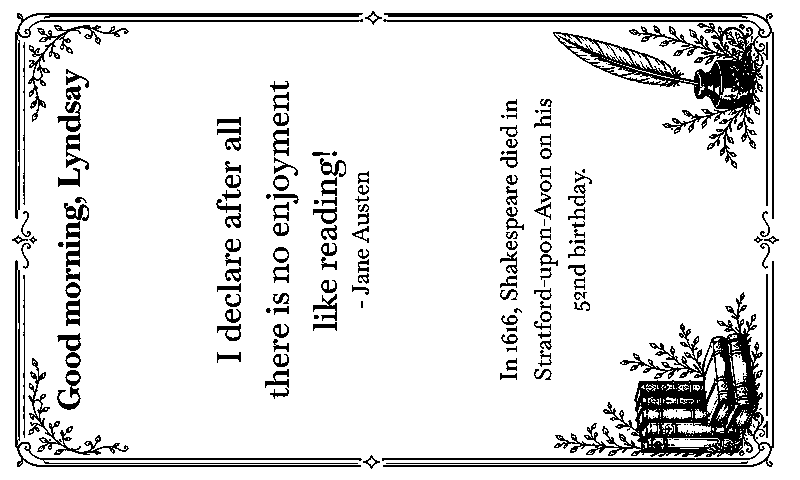
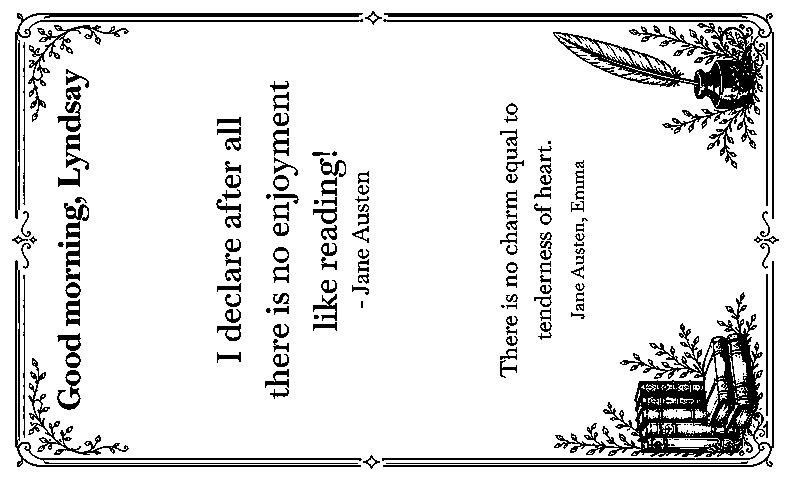
Add literature quote source

Changed region(s): [[0.625, 0.1875, 0.75, 0.8125]]

diff --git a/app/static/index.html b/app/static/index.html
@@ -99,6 +99,7 @@
               Source
               <select id="upperSource">
                 <option value="daily_author_quote">Daily quote from an author</option>
+                <option value="quotes_from_literature">Quotes from literature</option>
                 <option value="daily_bible_verse">Daily Bible verse</option>
                 <option value="daily_psalm">Daily Psalm</option>
                 <option value="today_in_history">Today in history</option>
@@ -131,6 +132,7 @@
               Source
               <select id="lowerSource">
                 <option value="daily_author_quote">Daily quote from an author</option>
+                <option value="quotes_from_literature">Quotes from literature</option>
                 <option value="daily_bible_verse">Daily Bible verse</option>
                 <option value="daily_psalm">Daily Psalm</option>
                 <option value="today_in_history">Today in history</option>

diff --git a/app/static/app.js b/app/static/app.js
@@ -90,10 +90,10 @@ function defaultUpperSection() {
 function defaultLowerSection() {
   return {
     enabled: true,
-    source: "on_this_day_literature",
-    title: "On This Day in Literature",
-    text: "In 1616, Shakespeare died in Stratford-upon-Avon on his 52nd birthday.",
-    author: "",
+    source: "quotes_from_literature",
+    title: "Quotes from Literature",
+    text: "There is no charm equal to tenderness of heart.",
+    author: "Jane Austen, Emma",
   };
 }
 

diff --git a/app/quote_providers.py b/app/quote_providers.py
@@ -37,6 +37,37 @@ _PSALM_READINGS = [
     "Psalm 91:1-2",
 ]
 
+_LITERATURE_QUOTES = [
+    {
+        "text": "There is no charm equal to tenderness of heart.",
+        "author": "Jane Austen, Emma",
+    },
+    {
+        "text": "We are such stuff as dreams are made on.",
+        "author": "William Shakespeare, The Tempest",
+    },
+    {
+        "text": "Whatever our souls are made of, his and mine are the same.",
+        "author": "Emily Bronte, Wuthering Heights",
+    },
+    {
+        "text": "It is nothing to die; it is dreadful not to live.",
+        "author": "Victor Hugo, Les Miserables",
+    },
+    {
+        "text": "The world is full of obvious things which nobody by any chance ever observes.",
+        "author": "Arthur Conan Doyle, The Hound of the Baskervilles",
+    },
+    {
+        "text": "I am no bird; and no net ensnares me.",
+        "author": "Charlotte Bronte, Jane Eyre",
+    },
+    {
+        "text": "And now that you don't have to be perfect, you can be good.",
+        "author": "John Steinbeck, East of Eden",
+    },
+]
+
 
 def resolve_display_content(display: DisplayConfig, settings: SettingsConfig | None = None) -> DisplayConfig:
     resolved = display.model_copy(deep=True)
@@ -70,6 +101,8 @@ def resolve_quote(quote: QuoteConfig, settings: SettingsConfig | None = None) ->
 def _fetch_quote(source: str, fallback: QuoteConfig, settings: SettingsConfig | None = None) -> QuoteConfig:
     if source == "daily_author_quote":
         return _fetch_zenquotes_today(fallback)
+    if source == "quotes_from_literature":
+        return _fetch_literature_quote(fallback)
     if source == "daily_bible_verse":
         return _fetch_bible_reference(_daily_pick(_BIBLE_VERSES), "Daily Bible Verse", source, fallback)
     if source == "daily_psalm":
@@ -96,6 +129,17 @@ def _fetch_zenquotes_today(fallback: QuoteConfig) -> QuoteConfig:
         title=fallback.title or "Daily Quote",
         text=_clean_text(item["q"]),
         author=_clean_text(item["a"]),
+    )
+
+
+def _fetch_literature_quote(fallback: QuoteConfig) -> QuoteConfig:
+    item = _daily_pick(_LITERATURE_QUOTES)
+    return QuoteConfig(
+        enabled=fallback.enabled,
+        source="quotes_from_literature",
+        title=fallback.title or "Quotes from Literature",
+        text=_clean_text(item["text"]),
+        author=_clean_text(item["author"]),
     )
 
 

diff --git a/app/config_store.py b/app/config_store.py
@@ -25,6 +25,7 @@ class WeatherConfig(BaseModel):
 
 ContentSource = Literal[
     "daily_author_quote",
+    "quotes_from_literature",
     "daily_bible_verse",
     "daily_psalm",
     "today_in_history",
@@ -65,10 +66,10 @@ class DisplayConfig(BaseModel):
     )
     lower: SectionConfig = Field(
         default_factory=lambda: SectionConfig(
-            source="on_this_day_literature",
-            title="On This Day in Literature",
-            text="In 1616, Shakespeare died in Stratford-upon-Avon on his 52nd birthday.",
-            author="",
+            source="quotes_from_literature",
+            title="Quotes from Literature",
+            text="There is no charm equal to tenderness of heart.",
+            author="Jane Austen, Emma",
         )
     )
     footer_left: str = "~ i ~"
@@ -111,10 +112,10 @@ class AppConfig(BaseModel):
                     author="Jane Austen",
                 ),
                 lower=SectionConfig(
-                    source="on_this_day_literature",
-                    title="On This Day in Literature",
-                    text="In 1616, Shakespeare died in Stratford-upon-Avon on his 52nd birthday.",
-                    author="",
+                    source="quotes_from_literature",
+                    title="Quotes from Literature",
+                    text="There is no charm equal to tenderness of heart.",
+                    author="Jane Austen, Emma",
                 ),
             ),
         }

diff --git a/rpi3-waveshare-book-clock/src/render_book_clock.py b/rpi3-waveshare-book-clock/src/render_book_clock.py
@@ -47,9 +47,9 @@ class ClockData:
     upper_title: str = "LITERARY QUOTE OF THE DAY"
     upper_text: str = "I declare after all there is no enjoyment like reading!"
     upper_author: str = "Jane Austen"
-    lower_title: str = "ON THIS DAY IN LITERATURE"
-    lower_text: str = "In 1616, Shakespeare died in Stratford-upon-Avon on his 52nd birthday."
-    lower_author: str = ""
+    lower_title: str = "QUOTES FROM LITERATURE"
+    lower_text: str = "There is no charm equal to tenderness of heart."
+    lower_author: str = "Jane Austen, Emma"
 
 
 def greeting_for(now: datetime) -> str:

diff --git a/README.md b/README.md
@@ -67,6 +67,7 @@ The Elecrow payload has two configurable content sections: `weather` and `quote`
 | Source | Meaning |
 |---|---|
 | `daily_author_quote` | Quote of the day from ZenQuotes |
+| `quotes_from_literature` | Daily selected quote from literature |
 | `daily_bible_verse` | Daily selected passage from bible-api.com |
 | `daily_psalm` | Daily selected Psalm passage from bible-api.com |
 | `today_in_history` | Historical event from Wikipedia's public on-this-day feed |
